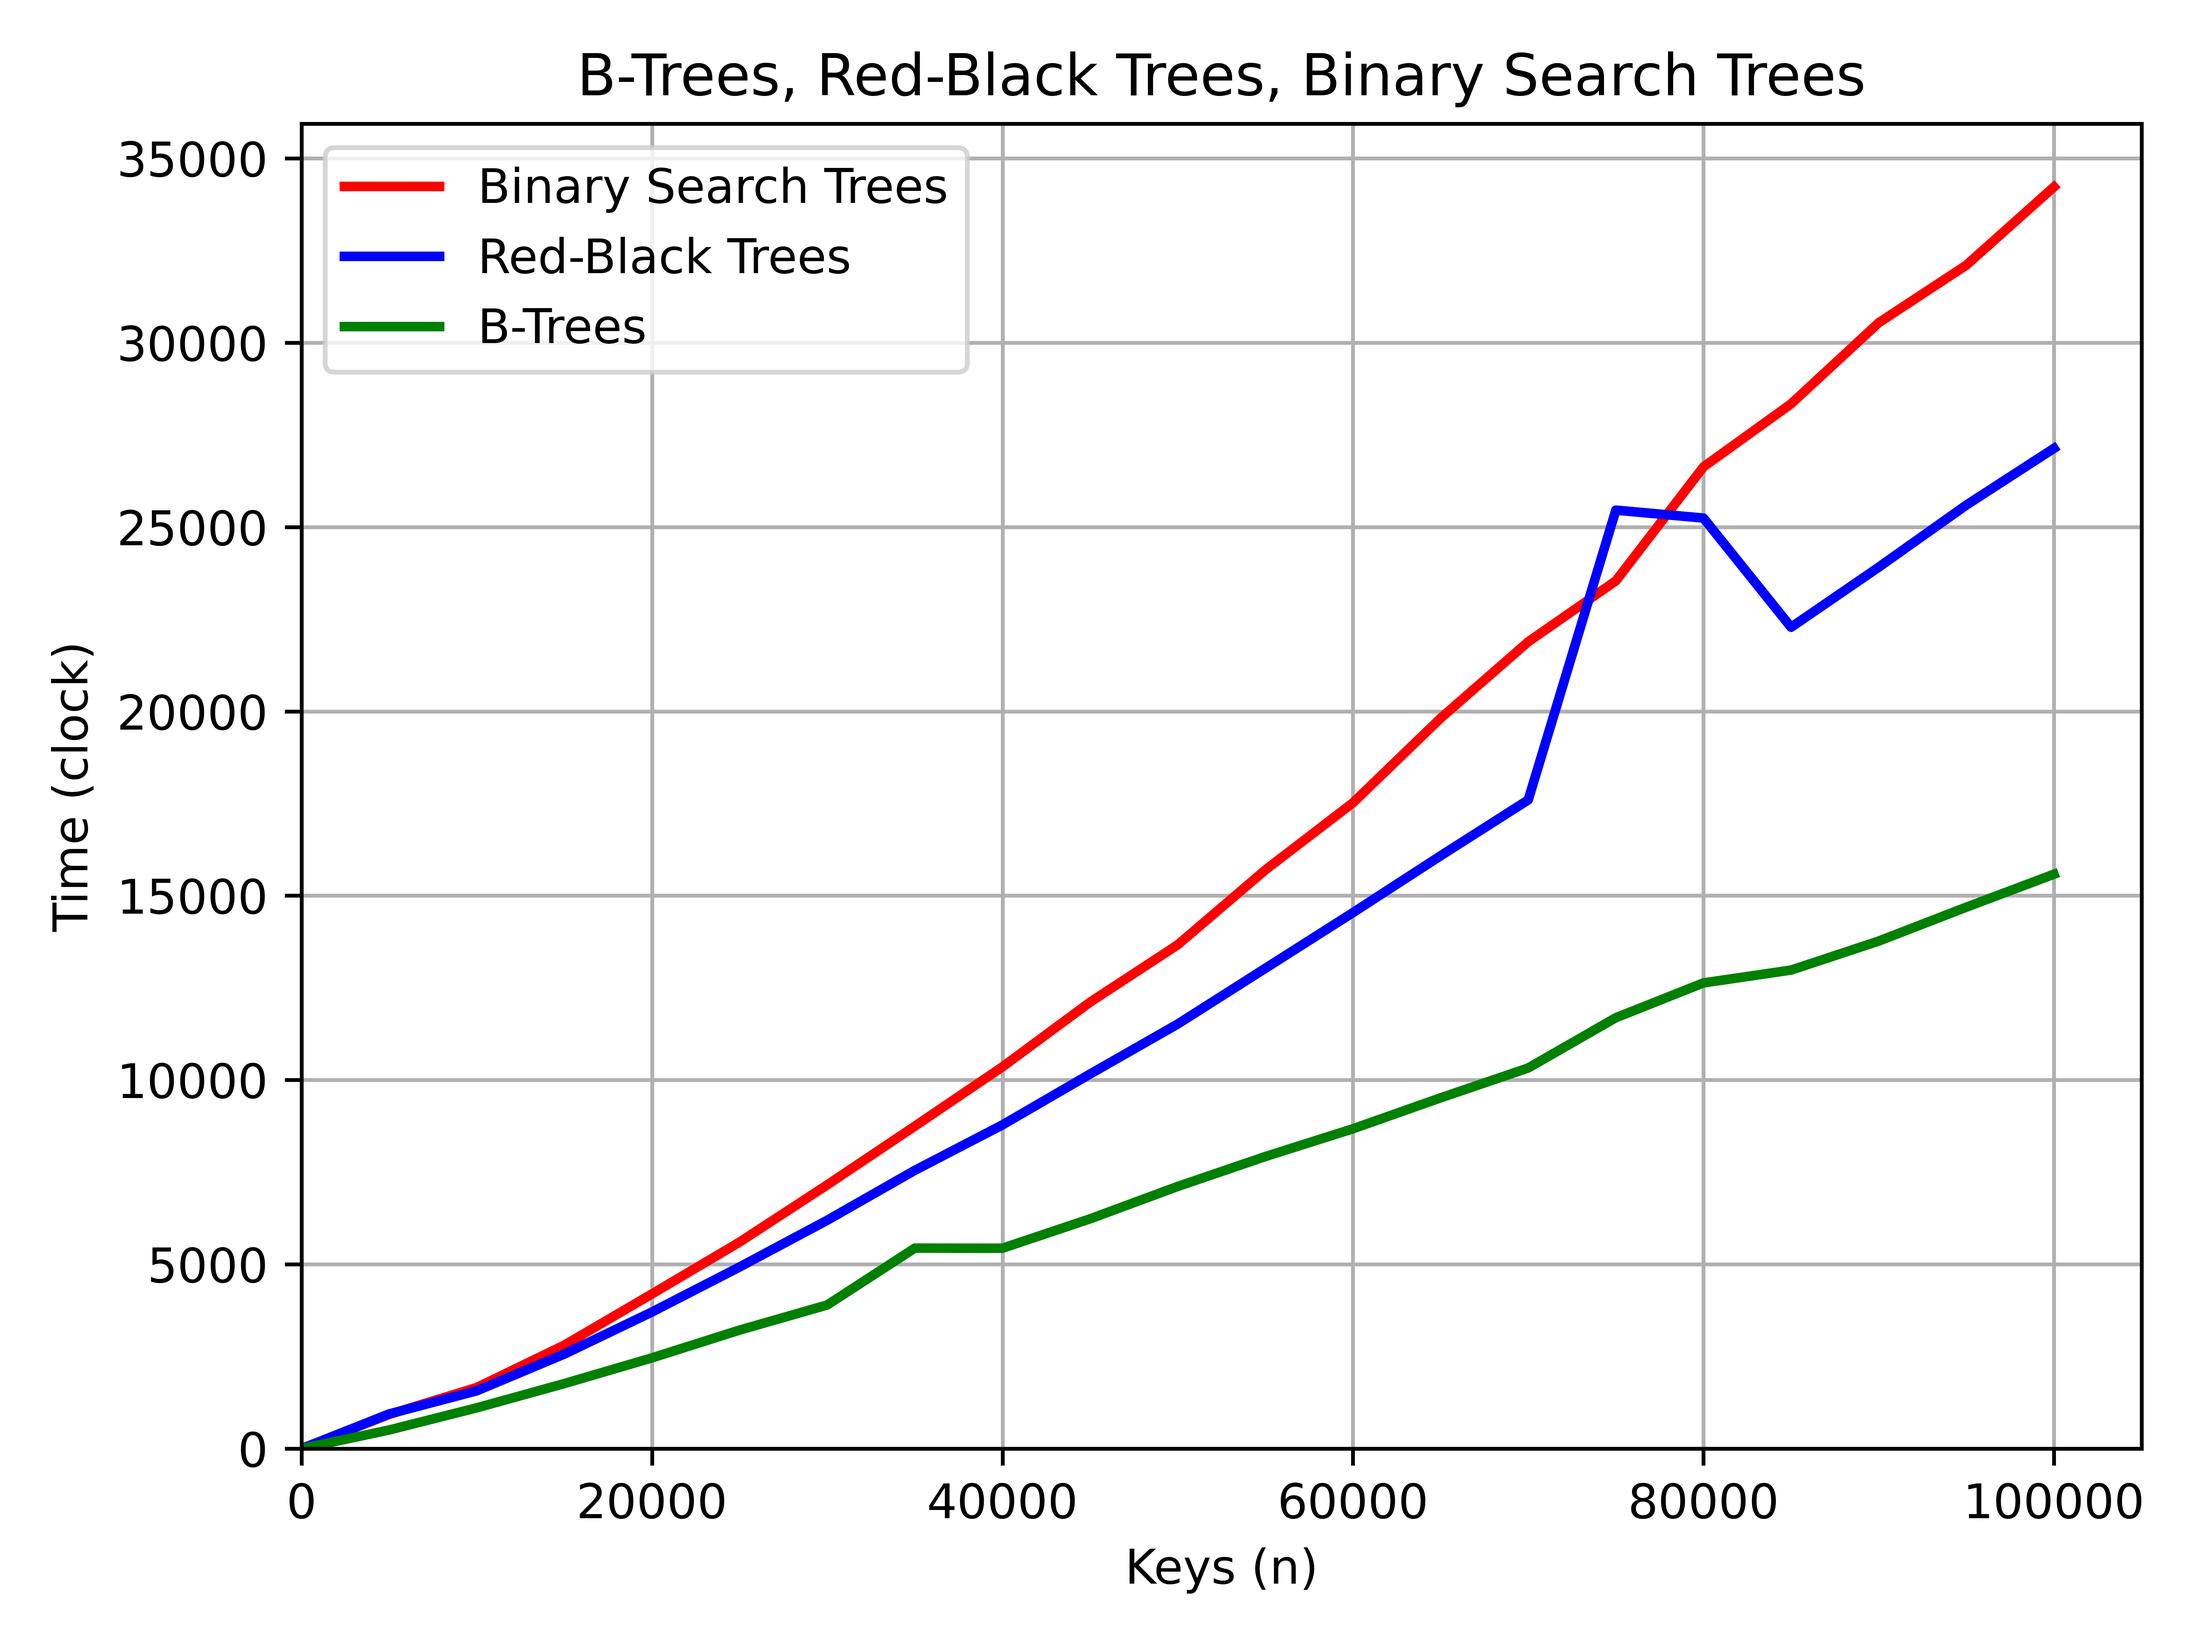
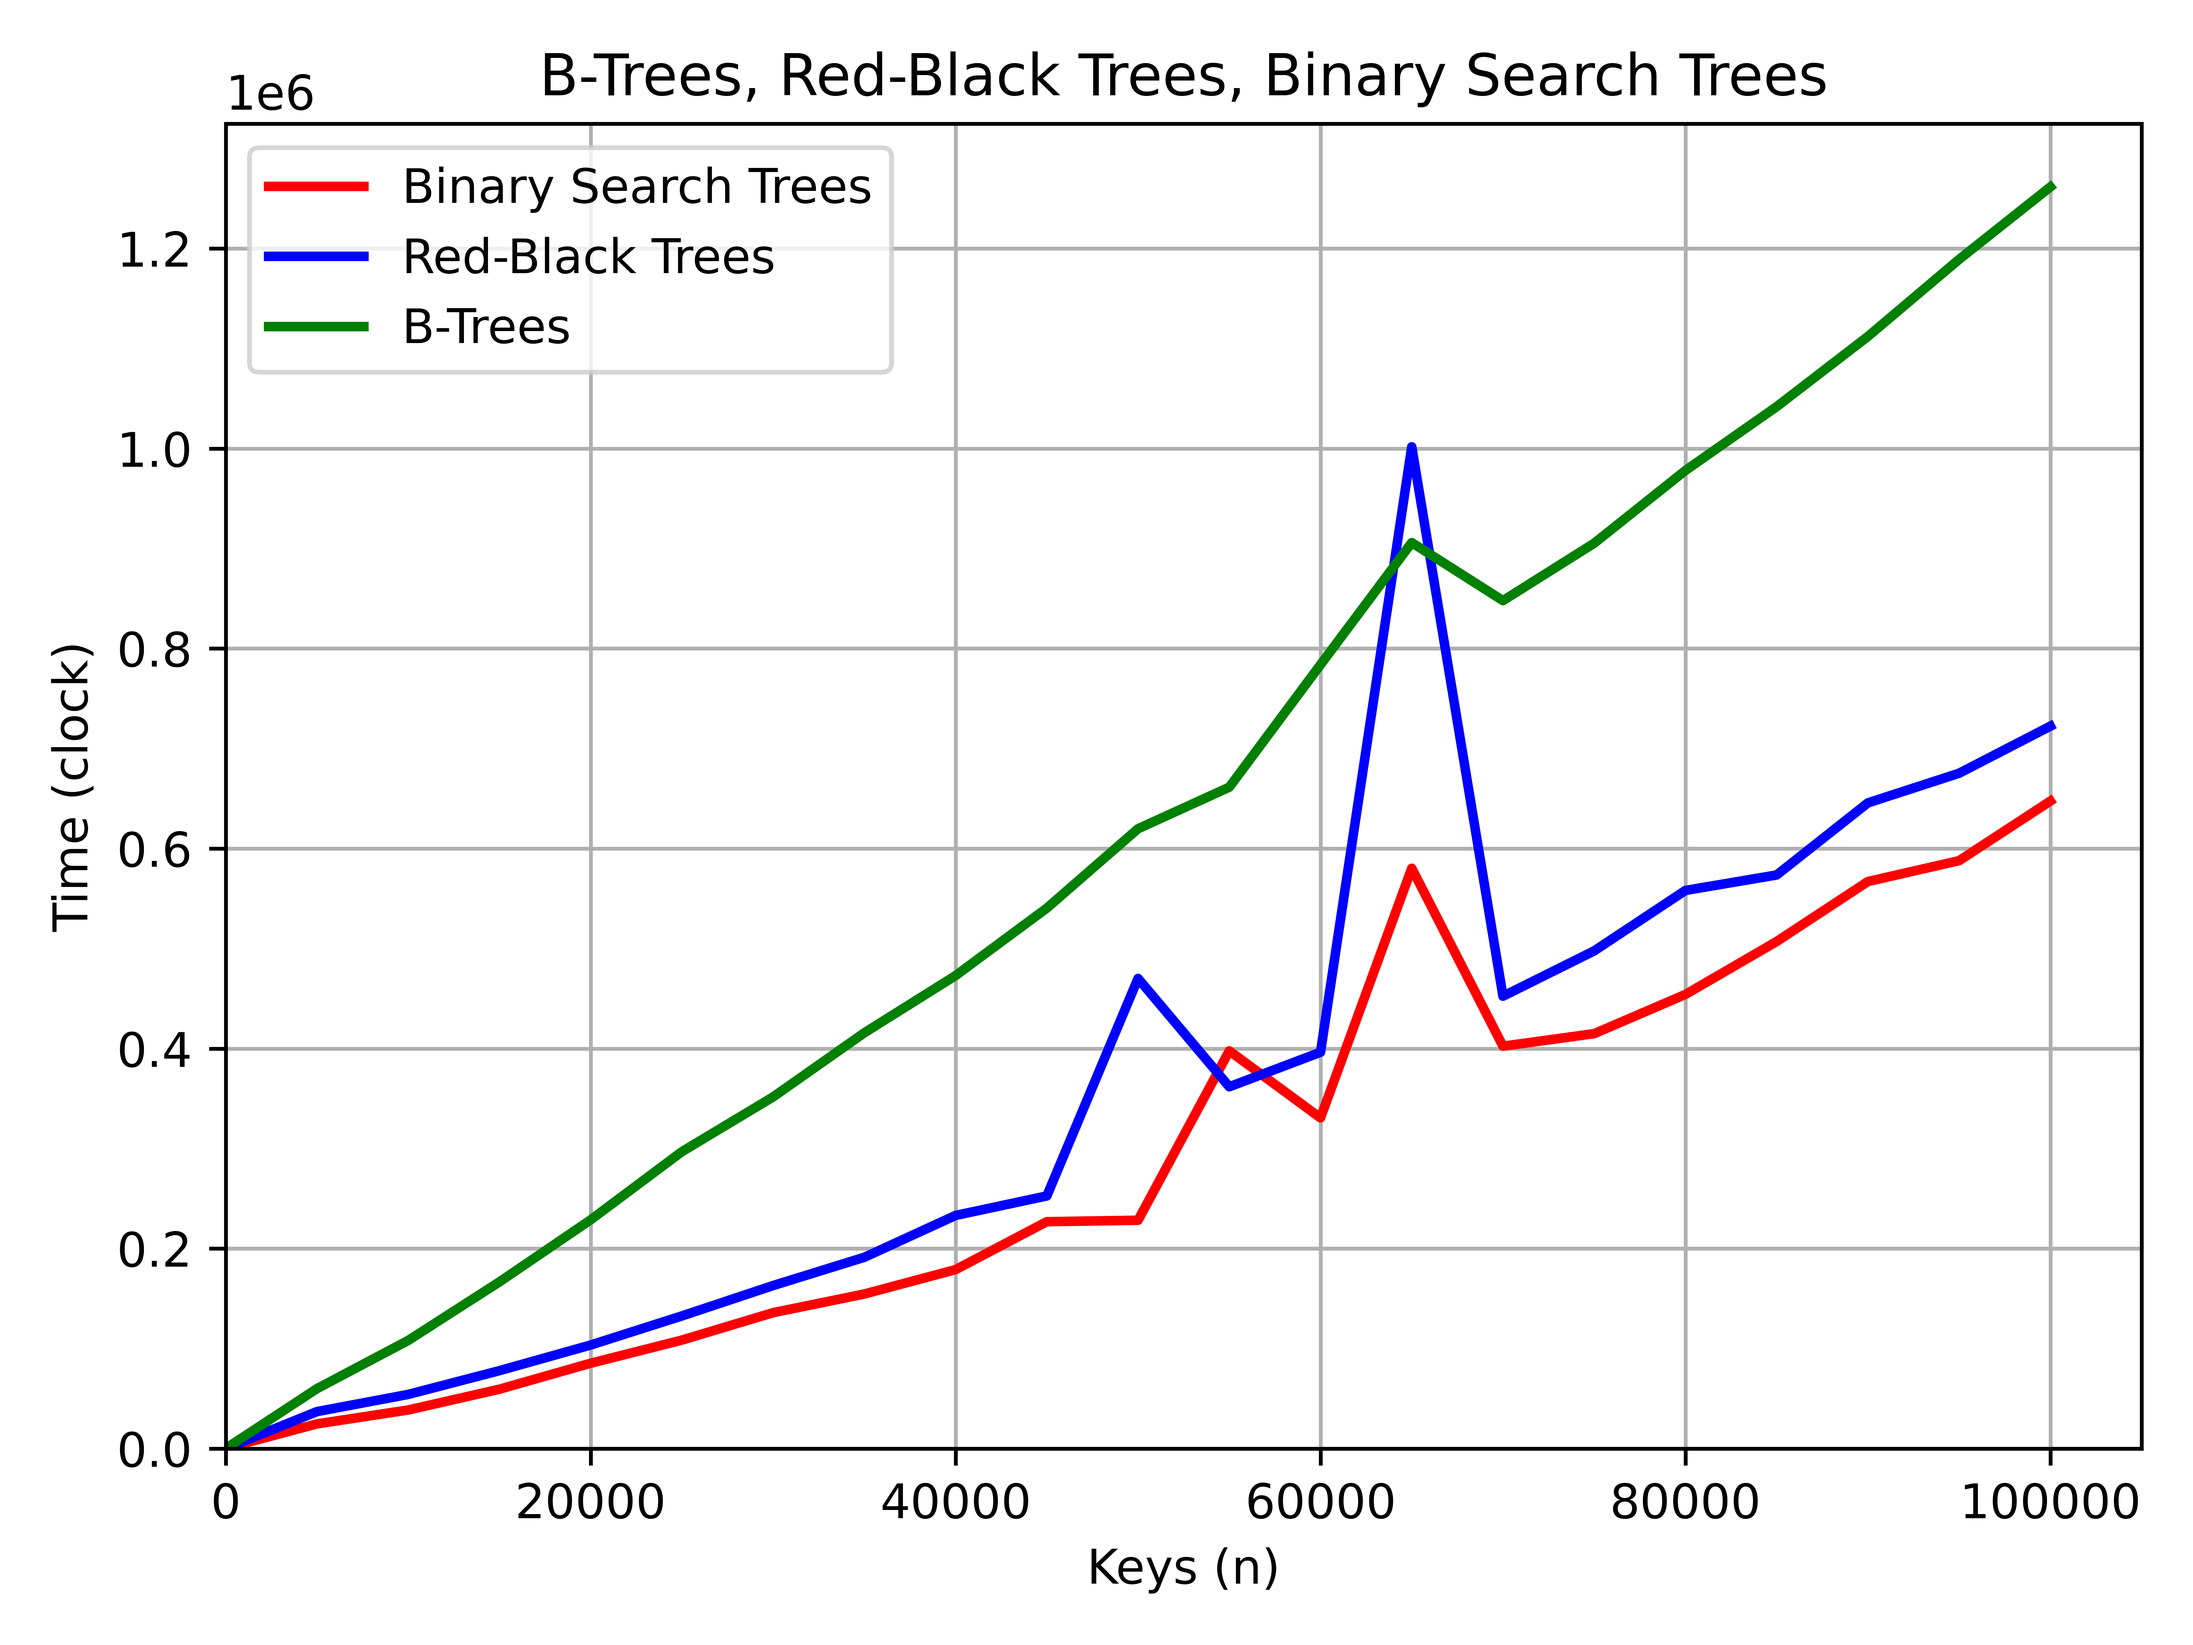
exp 3

diff --git a/src/modules/data_structures/b_trees.c b/src/modules/data_structures/b_trees.c
@@ -31,7 +31,6 @@ BTTree *BTNewTree(ssize_t t) {
     tree->root = BTNewNode(t, true);
     tree->root->n = 0; // root cardinality
     tree->root->leaf = true; // root is a leaf
-    tree->root->parent = NULL; // root has no parent
     tree->root->children = NULL; // root has no children (yet!)
 
     DiskWrite(tree->root);
@@ -40,7 +39,7 @@ BTTree *BTNewTree(ssize_t t) {
 }
 
 void BTSplitChild(BTTree *T, BTNode *x, ssize_t i) {
-    BTNode *z = BTNewNode(T->t, x->leaf);
+    BTNode *z = BTNewNode(T->t, x->children[i]->leaf);
     BTNode *y = x->children[i];
 
     z->leaf = y->leaf;
@@ -74,8 +73,6 @@ void BTSplitChild(BTTree *T, BTNode *x, ssize_t i) {
     DiskWrite(y);
     DiskWrite(z);
     DiskWrite(x);
-
-    // free(z); // remove comment only when actually writing to disk
 }
 
 void BTInsertNonFull(BTTree *T, BTNode *x, int k) {
@@ -151,41 +148,6 @@ NodeAndIndex BTSearchKey(BTNode *x, int k) {
     }
 }
 
-/*void BTMerge(BTTree *T, BTNode *x, ssize_t i) {
-    BTNode *y = x->children[i];
-    BTNode *z = x->children[i + 1];
-
-    y->keys[T->t - 1] = x->keys[i];
-
-    for (ssize_t j = 0; j < z->n; ++j) {
-        y->keys[j + T->t] = z->keys[j];
-    }
-
-    if (y->leaf == false) {
-        for (ssize_t j = 0; j < z->n; ++j) {
-            y->children[j + T->t] = z->children[j];
-        }
-    }
-
-    y->n += z->n + 1;
-
-    for (ssize_t j = i; j < x->n - 1; ++j) {
-        x->keys[j] = x->keys[j + 1];
-    }
-
-    for (ssize_t j = i + 1; j < x->n; ++j) {
-        x->children[j] = x->children[j + 1];
-    }
-
-    x->n -= 1;
-
-    DiskWrite(y);
-    DiskWrite(z);
-    DiskWrite(x);
-
-    // free(z); // remove comment only when actually writing to disk
-}*/
-
 void BTDeleteFromLeaf(BTNode *x, ssize_t i) {
     for (ssize_t j = i + 1; j < x->n; ++j) {
         x->keys[j - 1] = x->keys[j];
@@ -244,7 +206,7 @@ void BTBorrowFromPrevious(BTNode *x, ssize_t i) {
         child->children[0] = sibling->children[sibling->n];
     }
 
-    x->keys[i - 1] = sibling->keys[sibling->n - 1]; // cambiato da child->keys[i - 1] a x->keys[sibling->n - 1]
+    x->keys[i - 1] = sibling->keys[sibling->n - 1];
 
     child->n += 1;
     sibling->n -= 1;
@@ -386,7 +348,7 @@ void BTRemoveFromNode(BTTree *T, BTNode *x, int k) {
 }
 
 void BTDeleteKey(BTTree *T, int key) {
-    if (T->root == NULL || !T->root || T->root->n == 0) {
+    if (T->root == NULL || !T->root) {
         return; // empty tree
     }
 
@@ -405,21 +367,24 @@ void BTDeleteKey(BTTree *T, int key) {
     }
 }
 
-void BTDestroyTree(BTTree *T, BTNode *x) {
-    ssize_t i;
-
-    for (i = 0; i < T->t; ++i) {
-        if (x->leaf == false) {
-            BTDestroyTree(T, x->children[i]);
-        }
-
-        free(x->keys);
-        free(x->children);
-        free(x);
-
-        break;
+void BTDestroyTreeRecursive(BTNode *x) {
+    if (x == NULL) {
+        return;
     }
 
-    //free(T->root);
-    //free(T);
+    if (x->leaf == false) {
+        for (ssize_t i = 0; i <= x->n; ++i) {
+            BTDestroyTreeRecursive(x->children[i]);
+        }
+    }
+
+    free(x->keys);
+    free(x->children);
+    free(x);
+}
+
+void BTDestroyTree(BTTree *T) {
+    BTDestroyTreeRecursive(T->root);
+
+    free(T);
 }

diff --git a/src/modules/experiments/lab_3.c b/src/modules/experiments/lab_3.c
@@ -58,7 +58,23 @@ exp_BT(ssize_t t, size_t max_keys, size_t max_search, size_t max_delete, size_t 
         /* The following lines will give back to the OS the dynamic memory previously allocated */
 
         // Destroying the data structures of the test
-        BTDestroyTree(T, T->root); // destroying the tree and all its leaves (nodes) - `T` is now NULL
+        // INSERIMENTO FORSE ERRATO
+        insert_index = 0;
+        for (size_t key = 0; key < max_keys; ++key) {
+            // it's important to use `i++` instead of `++i`
+            NodeAndIndex a = BTSearchKey(T->root, rand_insert_values_pool[insert_index++]);
+            if (a.node != NULL) {
+                //BTDeleteKey(T, a.node->key);
+                printf("TROVATO\n");
+            } else {
+                printf("NON TROVATO\n");
+            }
+        }
+        //printf("BEFORE\n");
+        //BTTraverse(T->root);
+        BTDestroyTree(T); // destroying the tree and all its leaves (nodes) - `T` is now NULL
+        //printf("AFTER\n");
+        //BTTraverse(T->root);
 
         // Destroying the arrays
         FreeNull_Int(rand_insert_values_pool);

diff --git a/src/headers/data_structures/b_trees.h b/src/headers/data_structures/b_trees.h
@@ -10,7 +10,6 @@ typedef struct bt_node {
     ssize_t n; // cardinality of keys in the node (number of keys actually stored)
     int *keys; // keys actually stored in the node (NOT in descending order)
     bool leaf; // `true` if the node is a leaf, `false` if it's an internal node
-    struct bt_node *parent; // pointer to the parent node
     struct bt_node **children; // array of pointers to the children
 } BTNode;
 
@@ -29,8 +28,7 @@ BTTree *BTNewTree(ssize_t t);
 void BTInsertKey(BTTree *T, int key);
 NodeAndIndex BTSearchKey(BTNode *x, int k);
 void BTDeleteKey(BTTree *T, int key);
-void BTDestroyTree(BTTree *T, BTNode *x);
-
+void BTDestroyTree(BTTree *T);
 
 #endif //DATA_STRUCTURES_B_TREES_H
 

diff --git a/src/main.c b/src/main.c
@@ -51,7 +51,7 @@ int main(int argc, char *argv[]) {
     Configuration lab3_conf;
     lab3_conf.min_keys = 0; // minimum number of keys in the tree
     lab3_conf.max_keys = 100000; // maximum number of keys in the tree
-    lab3_conf.max_instances = 70; // how many times to repeat the same test
+    lab3_conf.max_instances = 01; // how many times to repeat the same test
     lab3_conf.step = 5000; // the amount of keys will grow this much at each test
     lab3_conf.search_delete_ratio = 60; // ratio of insertions/deletions
     lab3_conf.seed = 10; // srand()'s starting seed
